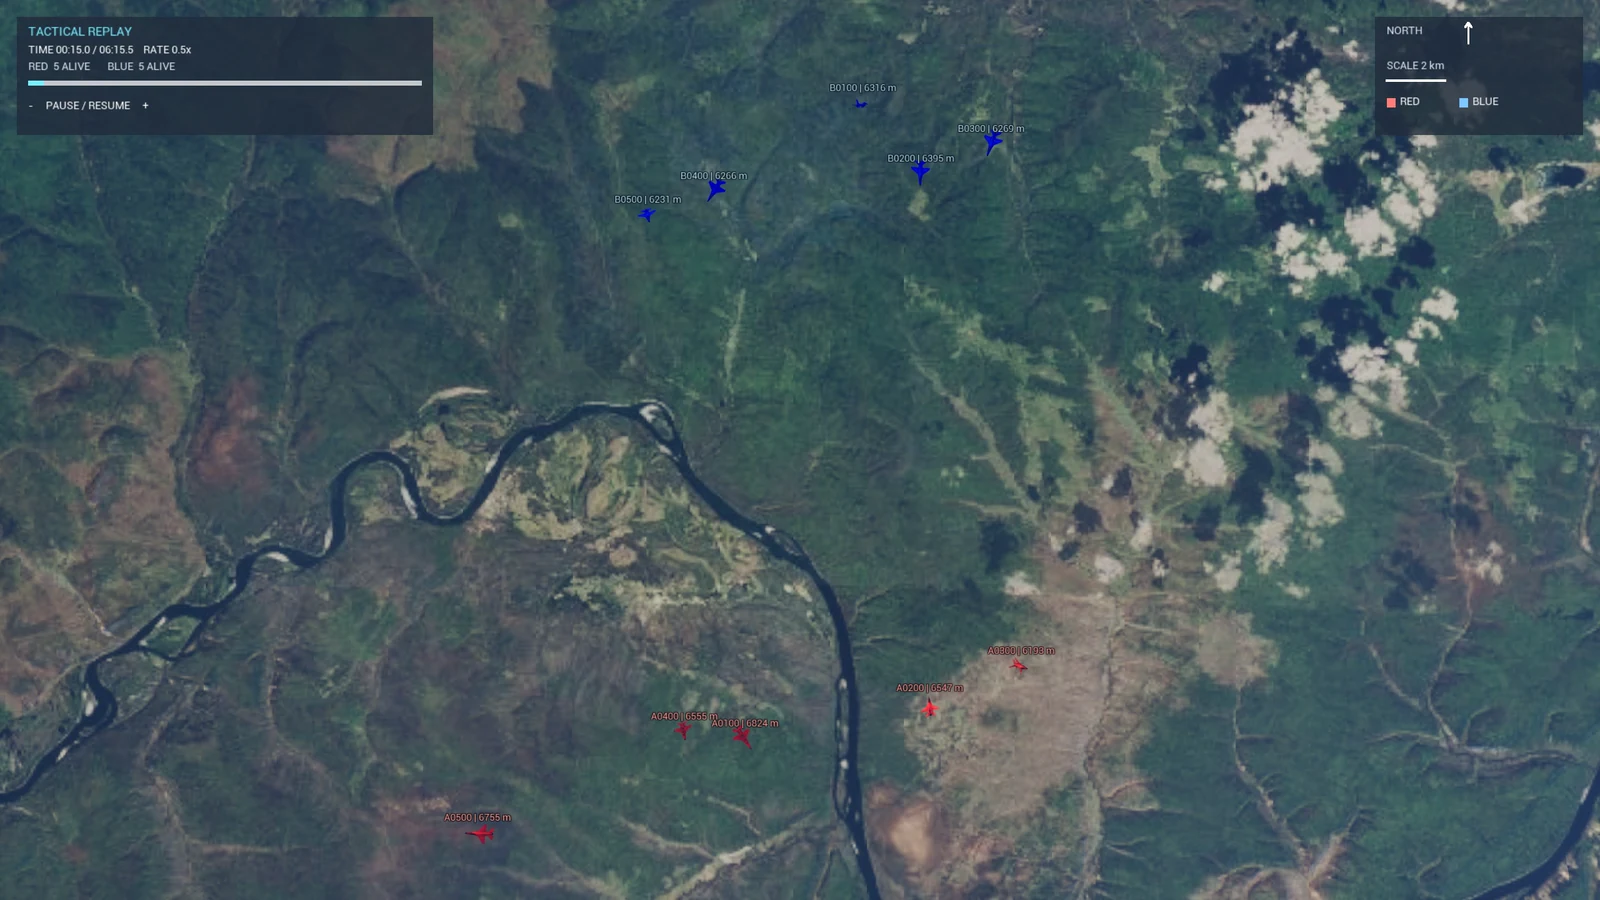
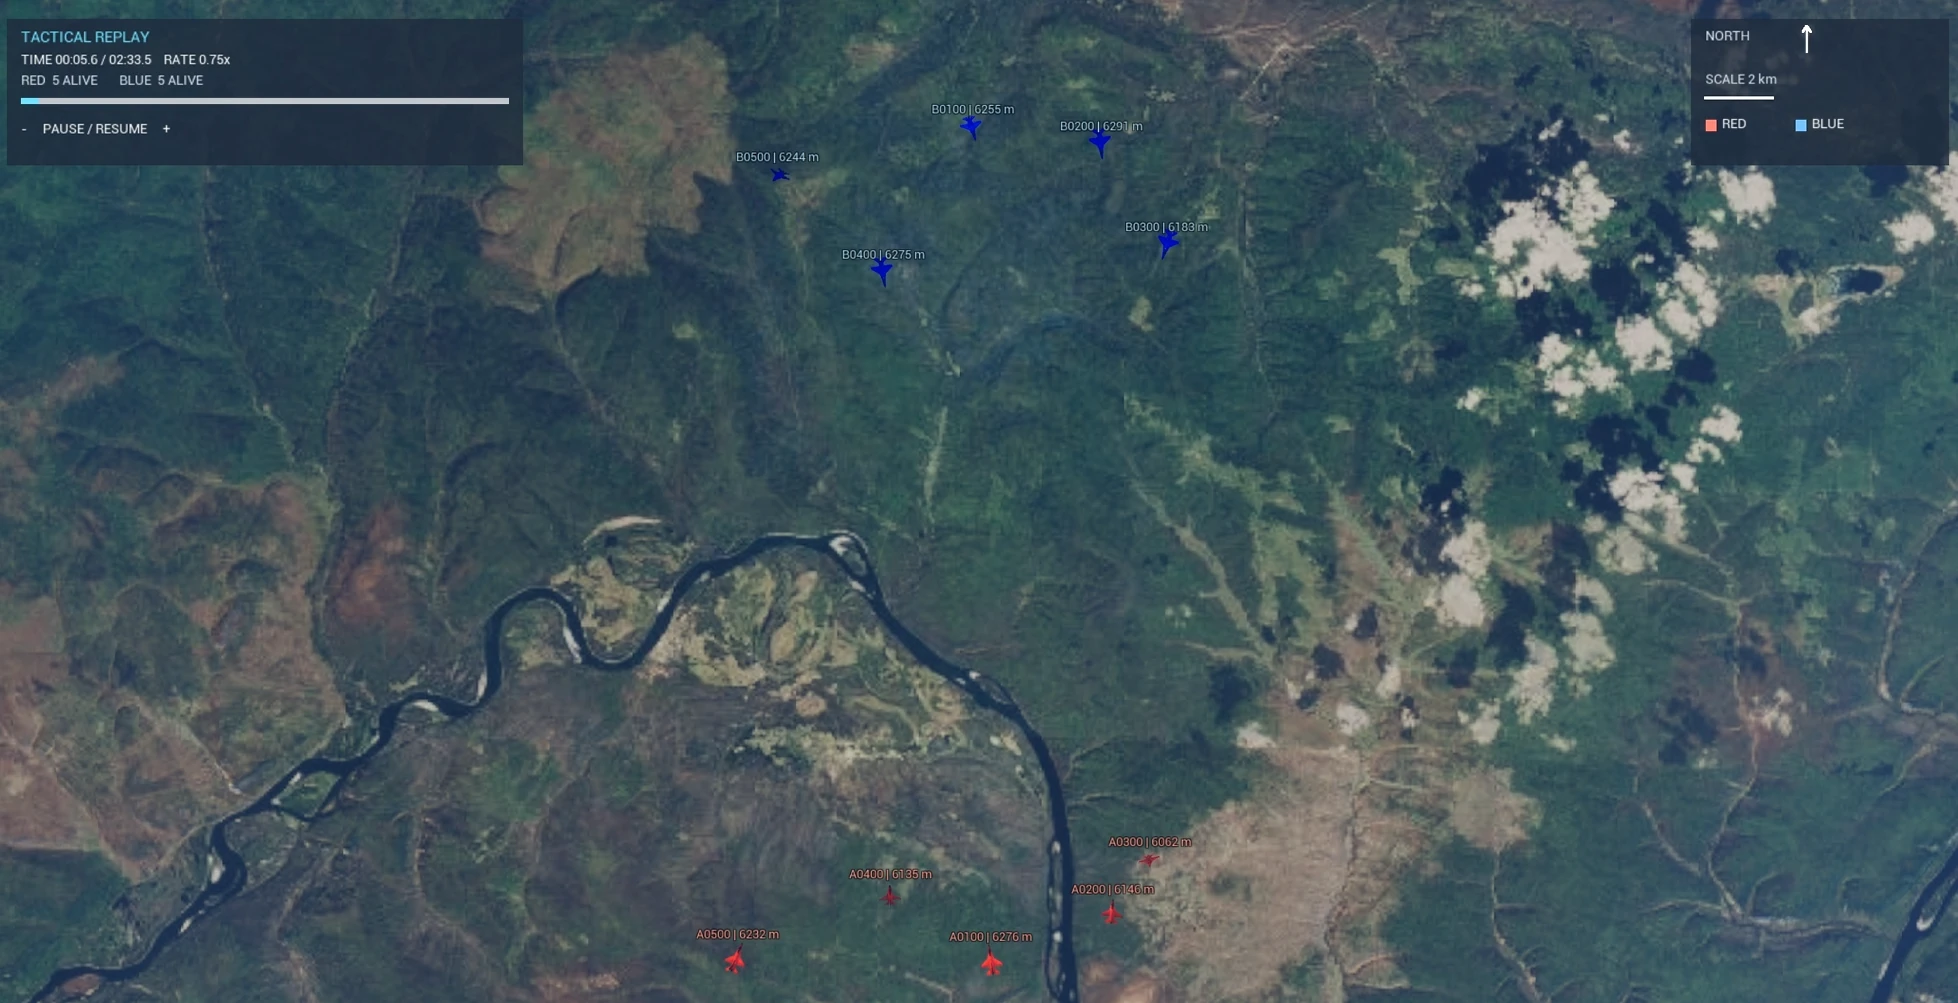
Show a single replay overview in README

diff --git a/ReadMe.md b/ReadMe.md
@@ -6,11 +6,7 @@
 
 ## 演示画面
 
-![5v5 ACMI 空战回放全局态势](Docs/Images/air-combat-overview.webp)
-
-| 多机交汇与动态俯视镜头 | 规则策略对抗中段态势 |
-| --- | --- |
-| ![多机交汇与动态俯视镜头](Docs/Images/air-combat-engagement.webp) | ![规则策略对抗中段态势](Docs/Images/rule-based-counter.webp) |
+![AirCombatReplay 5v5 全局态势](Docs/Images/air-combat-overview.webp)
 
 ## 平台状态
 
